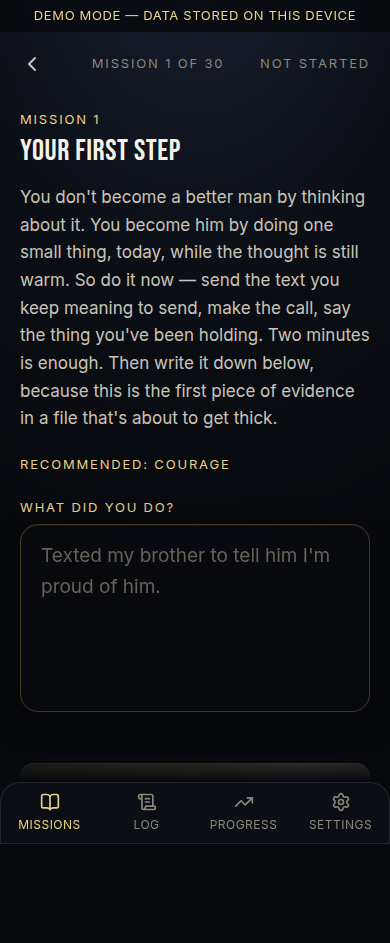
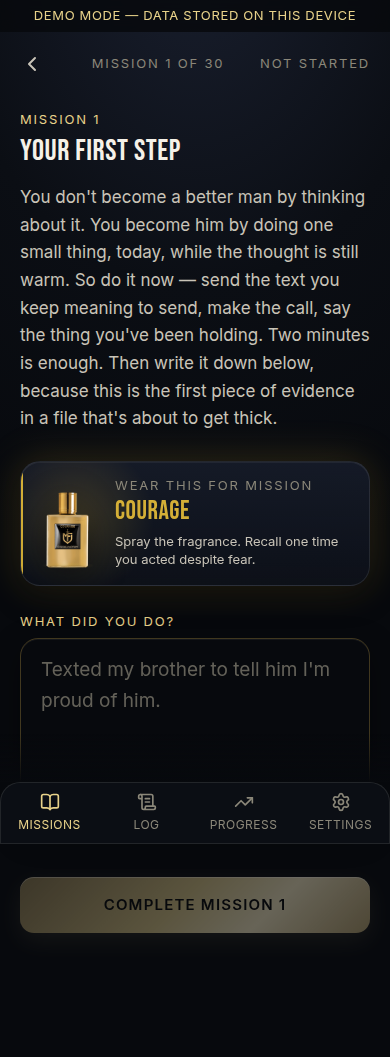
Show the bottle, not the word: fragrance cue and the three-bottle row
"RECOMMENDED: COMMITMENT" was a line of text where the product should be.

New FragranceCue on every Mission screen: the bottle itself, standing in its
own pool of light, the value's colour down the card edge and a wash of it
behind the glass, the name in display type in that colour. It also carries
the T of S.T.A.R. — "Spray the fragrance. Recall one time you followed
through." When the ritual screen was folded away that instruction lost its
home; it belongs on the screen he is looking at while he sprays.

New FragranceTrio at the foot of the Missions list, filling the space under
the one-off row: the three bottles side by side. Each lifts, lights its edge
and brightens the pool beneath it on hover, and opens on tap to say what that
fragrance is for. Hover and open are the same state, so a finger gets
everything a cursor does — and `@media (hover: none)` stops a tapped tile
sticking in its hover state on iOS. A man who forgets what Commitment is for
no longer has to replay onboarding to find out.

Accent colours reach CSS through --cue-color / --cue-glow custom properties,
since :hover cannot be written inline.

Walkthrough covers both; lint, tsc and build clean.

Claude-Session: https://claude.ai/code/session_01WVgj5E7JPb9xgPaaNWkVw6

diff --git a/src/components/FragranceTrio.tsx b/src/components/FragranceTrio.tsx
@@ -1,0 +1,102 @@
+"use client";
+
+import { useState } from "react";
+import BottleVisual from "@/components/BottleVisual";
+import { TRIGGERS, TRIGGER_ACCENTS, TRIGGER_ORDER } from "@/content/triggers";
+import { track } from "@/lib/analytics";
+import type { Trigger } from "@/lib/data/types";
+
+/**
+ * The three bottles, side by side, at the foot of the Missions list.
+ *
+ * They light up on hover and open on tap — a man who forgets what Commitment
+ * is for shouldn't have to replay onboarding to find out. Hover is the
+ * desktop affordance; tap is the real one, so everything hover does, the
+ * open state does too.
+ */
+export default function FragranceTrio() {
+  const [open, setOpen] = useState<Trigger | null>(null);
+  const meta = open ? TRIGGERS[open] : null;
+
+  return (
+    <section className="mt-10">
+      <p className="eyebrow text-ink-2">YOUR THREE FRAGRANCES</p>
+      <p className="mt-2 text-[13px] text-ink-2">
+        Tap a bottle to remember what it is for.
+      </p>
+
+      <div className="mt-4 flex gap-3">
+        {TRIGGER_ORDER.map((trigger) => {
+          const tone = TRIGGER_ACCENTS[trigger];
+          const isOpen = open === trigger;
+          return (
+            <button
+              key={trigger}
+              type="button"
+              aria-expanded={isOpen}
+              aria-label={`What ${TRIGGERS[trigger].name.toLowerCase()} is for`}
+              data-open={isOpen}
+              onClick={() => {
+                const next = isOpen ? null : trigger;
+                setOpen(next);
+                if (next) track("fragrance_opened", { selectedTrigger: next });
+              }}
+              className="bottle-tile relative flex flex-1 flex-col items-center rounded-[18px] px-2 pt-5 pb-3"
+              style={
+                {
+                  "--cue-color": tone.color,
+                  "--cue-glow": tone.glow,
+                } as React.CSSProperties
+              }
+            >
+              <span className="relative flex items-end justify-center">
+                <BottleVisual trigger={trigger} size={44} />
+                {/* The pool of light it stands in — brightens with the tile. */}
+                <span
+                  aria-hidden
+                  className="bottle-pool absolute bottom-0 left-1/2 h-[6px] w-[46px] -translate-x-1/2 rounded-full"
+                  style={{
+                    background: `radial-gradient(ellipse, ${tone.glow} 0%, transparent 72%)`,
+                  }}
+                />
+              </span>
+              <span
+                className="font-display mt-3 text-[15px] leading-none"
+                style={{
+                  color:
+                    trigger === "commitment" && !isOpen
+                      ? "var(--ink-1)"
+                      : isOpen
+                        ? "var(--ink-0)"
+                        : "var(--ink-1)",
+                }}
+              >
+                {TRIGGERS[trigger].name}
+              </span>
+            </button>
+          );
+        })}
+      </div>
+
+      {meta && open && (
+        <div
+          key={open}
+          className="glass fade-in relative mt-3 overflow-hidden rounded-[18px] p-5"
+          style={{
+            boxShadow: `inset 0 1px 0 rgba(255,255,255,.06), 0 10px 30px rgba(0,0,0,.35), 0 0 34px ${TRIGGER_ACCENTS[open].glow}`,
+          }}
+        >
+          <span
+            aria-hidden
+            className="absolute top-0 bottom-0 left-0 w-[2px]"
+            style={{ background: TRIGGER_ACCENTS[open].color }}
+          />
+          <p className="eyebrow text-gold-300">{meta.tagline}</p>
+          <p className="mt-3 text-[15px] leading-relaxed text-ink-1">
+            {meta.about}
+          </p>
+        </div>
+      )}
+    </section>
+  );
+}

diff --git a/src/components/FragranceCue.tsx b/src/components/FragranceCue.tsx
@@ -1,0 +1,83 @@
+import BottleVisual from "@/components/BottleVisual";
+import { TRIGGERS, TRIGGER_ACCENTS } from "@/content/triggers";
+import type { Trigger } from "@/lib/data/types";
+import { cn } from "@/lib/utils";
+
+/**
+ * The fragrance a Mission calls for — the bottle itself, not a line of text.
+ *
+ * It also carries the T of S.T.A.R. When the ritual screen was folded away,
+ * "spray it and recall a moment you lived this" lost its home; this is where
+ * it belongs, on the screen he is looking at while he sprays.
+ *
+ * The bottle stands slightly proud of the card with its own pool of light
+ * beneath it, so the product reads as an object on a shelf rather than an
+ * icon in a row.
+ */
+export default function FragranceCue({
+  trigger,
+  className,
+}: {
+  trigger: Trigger;
+  className?: string;
+}) {
+  const meta = TRIGGERS[trigger];
+  const tone = TRIGGER_ACCENTS[trigger];
+
+  return (
+    <div
+      className={cn(
+        "glass relative flex items-stretch gap-4 overflow-hidden rounded-[20px] py-4 pr-5 pl-4",
+        className,
+      )}
+      style={{
+        boxShadow: `inset 0 1px 0 rgba(255,255,255,.06), 0 10px 30px rgba(0,0,0,.35), 0 0 40px ${tone.glow}`,
+      }}
+    >
+      {/* The value's own colour down the edge. */}
+      <span
+        aria-hidden
+        className="absolute top-0 bottom-0 left-0 w-[2px]"
+        style={{
+          background: tone.color,
+          boxShadow: tone.edge ? `1px 0 0 ${tone.edge}` : undefined,
+        }}
+      />
+      {/* A wash of that colour behind the bottle, falling off to nothing. */}
+      <span
+        aria-hidden
+        className="pointer-events-none absolute -top-6 -left-6 h-40 w-40 rounded-full"
+        style={{
+          background: `radial-gradient(circle, ${tone.glow} 0%, transparent 68%)`,
+        }}
+      />
+
+      <div className="relative flex w-[62px] shrink-0 items-end justify-center">
+        <BottleVisual trigger={trigger} size={54} />
+        {/* The pool of light the bottle stands in. */}
+        <span
+          aria-hidden
+          className="absolute bottom-0 left-1/2 h-[7px] w-[52px] -translate-x-1/2 rounded-full"
+          style={{
+            background: `radial-gradient(ellipse, ${tone.glow} 0%, transparent 72%)`,
+          }}
+        />
+      </div>
+
+      <div className="relative min-w-0 flex-1 self-center">
+        <p className="eyebrow text-ink-2">WEAR THIS FOR MISSION</p>
+        <p
+          className="font-display mt-1.5 text-[26px] leading-none"
+          style={{
+            color: trigger === "commitment" ? "var(--ink-0)" : tone.color,
+          }}
+        >
+          {meta.name}
+        </p>
+        <p className="mt-2 text-[13px] leading-snug text-ink-1">
+          {meta.starRecall}
+        </p>
+      </div>
+    </div>
+  );
+}

diff --git a/src/app/globals.css b/src/app/globals.css
@@ -156,6 +156,70 @@ body {
       0 12px 36px rgba(201, 166, 72, 0.15);
   }
 
+  /* ---------- The three bottles ---------- */
+
+  /*
+   * A bottle tile on the Missions list. The accent colour arrives as
+   * --cue-color / --cue-glow so hover and the open state can be styled in
+   * CSS instead of inline, where :hover cannot reach.
+   */
+  .bottle-tile {
+    background: linear-gradient(
+      180deg,
+      rgba(26, 32, 48, 0.55),
+      rgba(18, 23, 34, 0.4)
+    );
+    border: 1px solid var(--line);
+    transition:
+      border-color 180ms ease,
+      box-shadow 180ms ease,
+      transform 180ms ease;
+  }
+
+  .bottle-tile .bottle-pool {
+    opacity: 0.35;
+    transition: opacity 180ms ease;
+  }
+
+  .bottle-tile:hover,
+  .bottle-tile[data-open="true"] {
+    border-color: var(--cue-color);
+    box-shadow:
+      inset 0 1px 0 rgba(255, 255, 255, 0.08),
+      0 0 34px var(--cue-glow);
+    transform: translateY(-2px);
+  }
+
+  .bottle-tile:hover .bottle-pool,
+  .bottle-tile[data-open="true"] .bottle-pool {
+    opacity: 1;
+  }
+
+  /* A finger is not a cursor: never leave a tile stuck in its hover state. */
+  @media (hover: none) {
+    .bottle-tile:hover {
+      border-color: var(--line);
+      box-shadow: none;
+      transform: none;
+    }
+
+    .bottle-tile:hover .bottle-pool {
+      opacity: 0.35;
+    }
+
+    .bottle-tile[data-open="true"] {
+      border-color: var(--cue-color);
+      box-shadow:
+        inset 0 1px 0 rgba(255, 255, 255, 0.08),
+        0 0 34px var(--cue-glow);
+      transform: translateY(-2px);
+    }
+
+    .bottle-tile[data-open="true"] .bottle-pool {
+      opacity: 1;
+    }
+  }
+
   /* ---------- Glass ---------- */
 
   .glass {

diff --git a/src/app/(app)/missions/[number]/page.tsx b/src/app/(app)/missions/[number]/page.tsx
@@ -4,6 +4,7 @@ import { Check } from "lucide-react";
 import { useRouter } from "next/navigation";
 import { Suspense, use, useEffect, useRef, useState } from "react";
 import NavAction from "@/components/NavAction";
+import FragranceCue from "@/components/FragranceCue";
 import MissionVideo from "@/components/MissionVideo";
 import PhotoInput from "@/components/PhotoInput";
 import Button from "@/components/ui/Button";
@@ -258,7 +259,7 @@ function MissionDetailInner({
         />
       )}
 
-      <p className="eyebrow mt-6 text-gold-300">RECOMMENDED: {valueName}</p>
+      <FragranceCue trigger={trigger} className="mt-7" />
 
       {personalCode && (
         <GlassCard className="mt-5">

diff --git a/src/app/(app)/missions/page.tsx b/src/app/(app)/missions/page.tsx
@@ -3,6 +3,7 @@
 import { Check, ChevronRight, Play } from "lucide-react";
 import Link from "next/link";
 import { useEffect, useState } from "react";
+import FragranceTrio from "@/components/FragranceTrio";
 import Button from "@/components/ui/Button";
 import Eyebrow, { AccentDot } from "@/components/ui/Eyebrow";
 import Headline from "@/components/ui/Headline";
@@ -177,6 +178,8 @@ export default function MissionListPage() {
           <ChevronRight aria-hidden className="shrink-0 text-ink-2" size={20} />
         </div>
       </Link>
+
+      <FragranceTrio />
     </main>
   );
 }

diff --git a/docs/HANDOFF.md b/docs/HANDOFF.md
@@ -19,7 +19,7 @@ states. The Vivid Vision is archived; its replacement is the compiled, printable
 
 - Owner: Antonio Centeno (product decisions). Team contact: Yuri.
 - Repo: https://github.com/aiexecutionaccelerator/mfapp (branch `main`)
-- Version: 2.0.1 (one input, one click)
+- Version: 2.1.0 (one input, one click)
 
 ## Architecture facts that matter
 
